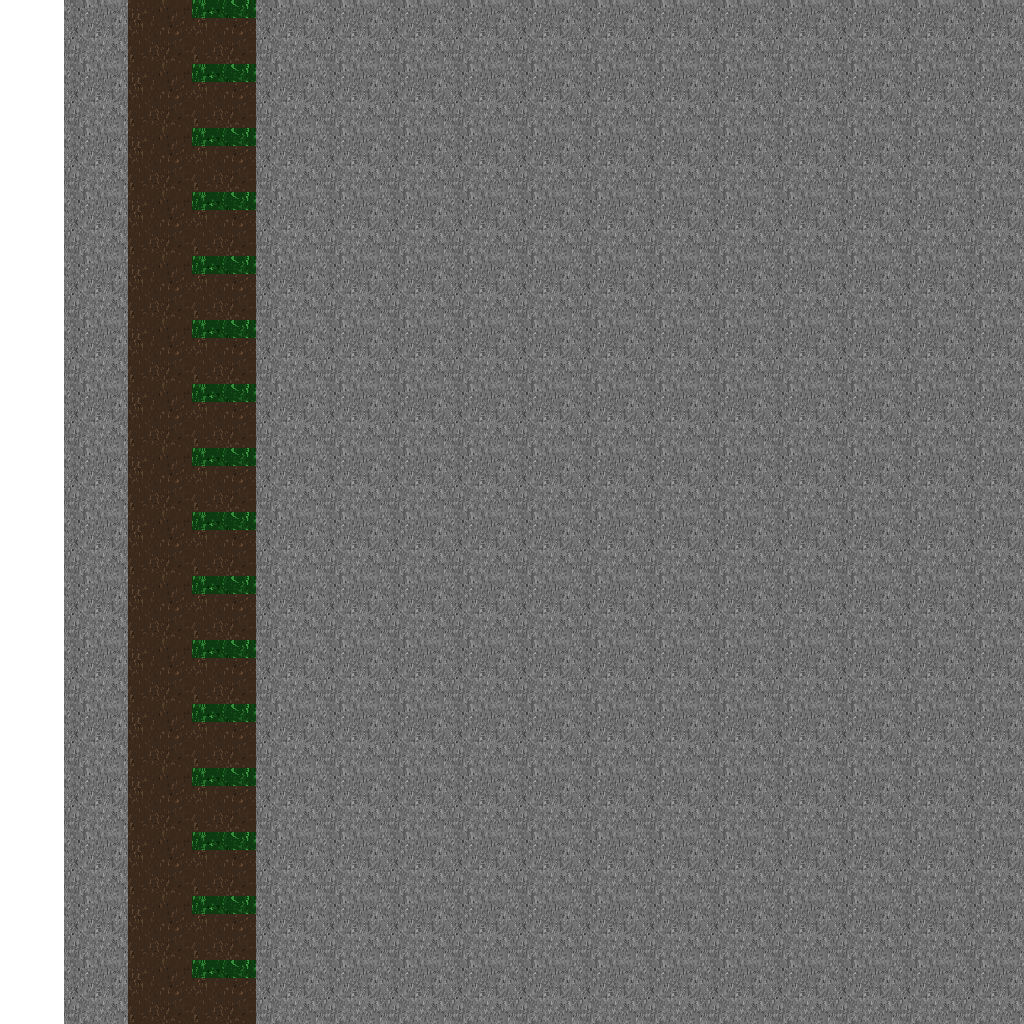
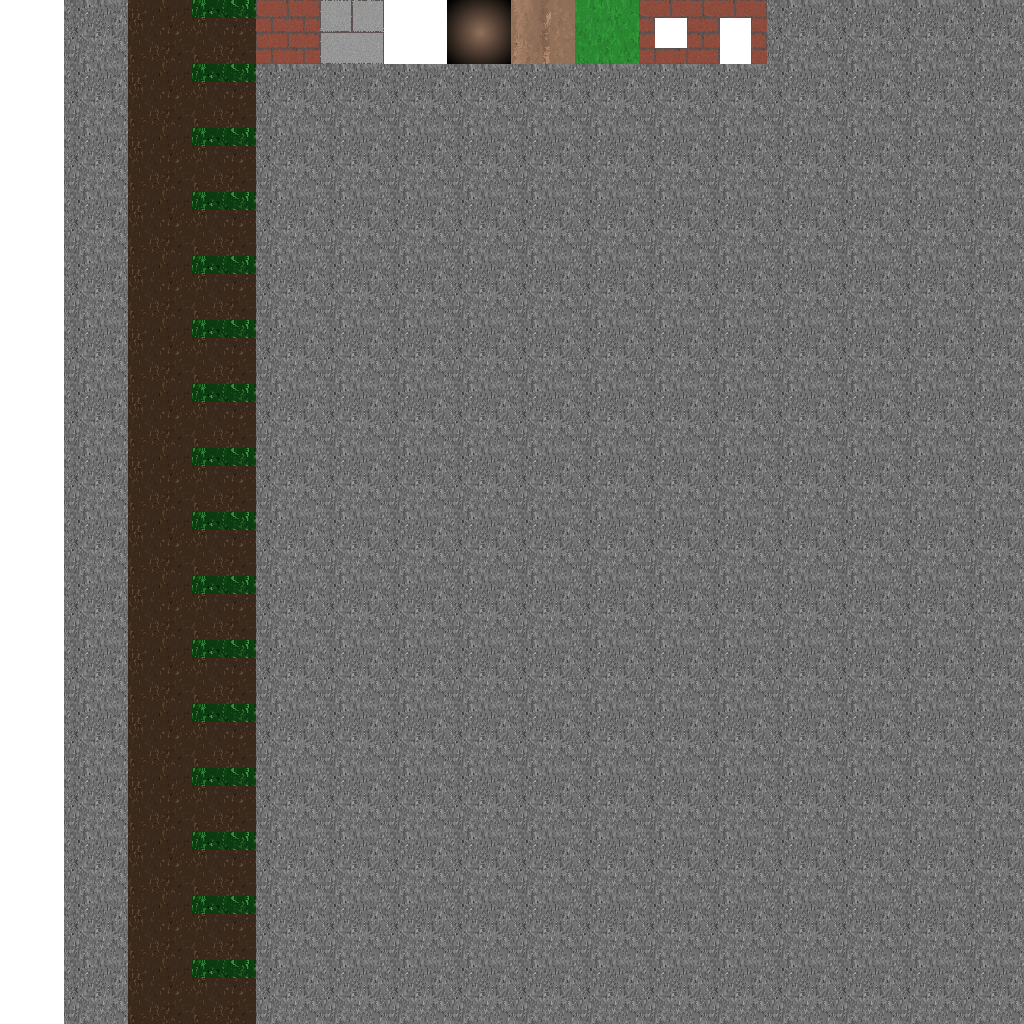
Fix

Changed region(s): [[0.25, 0.0, 0.75, 0.0625]]

diff --git a/World.cpp b/World.cpp
@@ -41,11 +41,11 @@ void World::loadFromFile(int chunkId)
             char a,b;
             file.read(&a,1);
             file.read(&b,1);
-            int blockCode = a * 256 + b;
+            short blockCode = ((a << 8) + b) & 0xFFFF;
 
             cout << blockX << hex << ":0x" << blockCode << ":";
             Block block(blockCode);
-            chunk->setBlock(blockX, blockY, block);
+            chunk->setBlock(blockX, blockY, block); //nie dziala powyzej 8!
 
             blockY++;
             if(blockY >= 18)
@@ -66,10 +66,10 @@ void World::addChunk(Chunk* chunk, int id)
 
 World::Block::Block(unsigned short code)
 {
-    this->blockType = (code & 0b1111000000000000) >> 12;
-    this->heightType = (code & 0b111100000000) >> 8;
-    this->meta = (code & 0b11110000) >> 4;
-    this->flags = code & 0b1111;
+    this->blockType = (code & 0xF000) >> 12;
+    this->heightType = (code & 0xF00) >> 8;
+    this->meta = (code & 0xF0) >> 4;
+    this->flags = code & 0xF;
 }
 
 World::~World()
